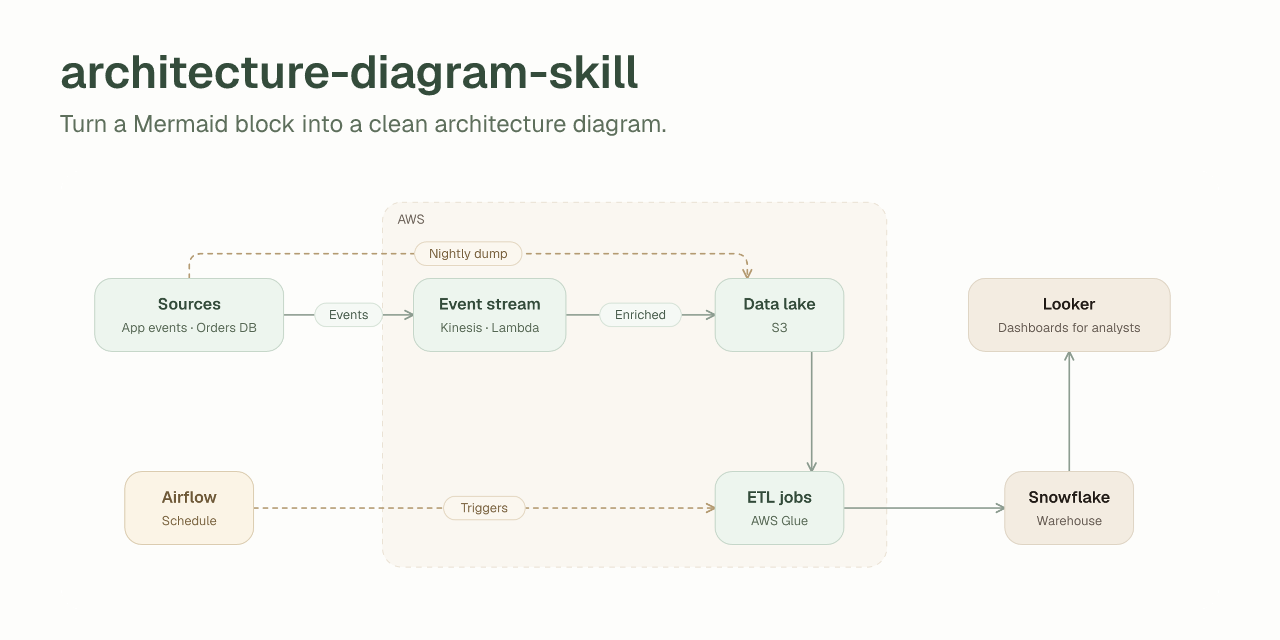
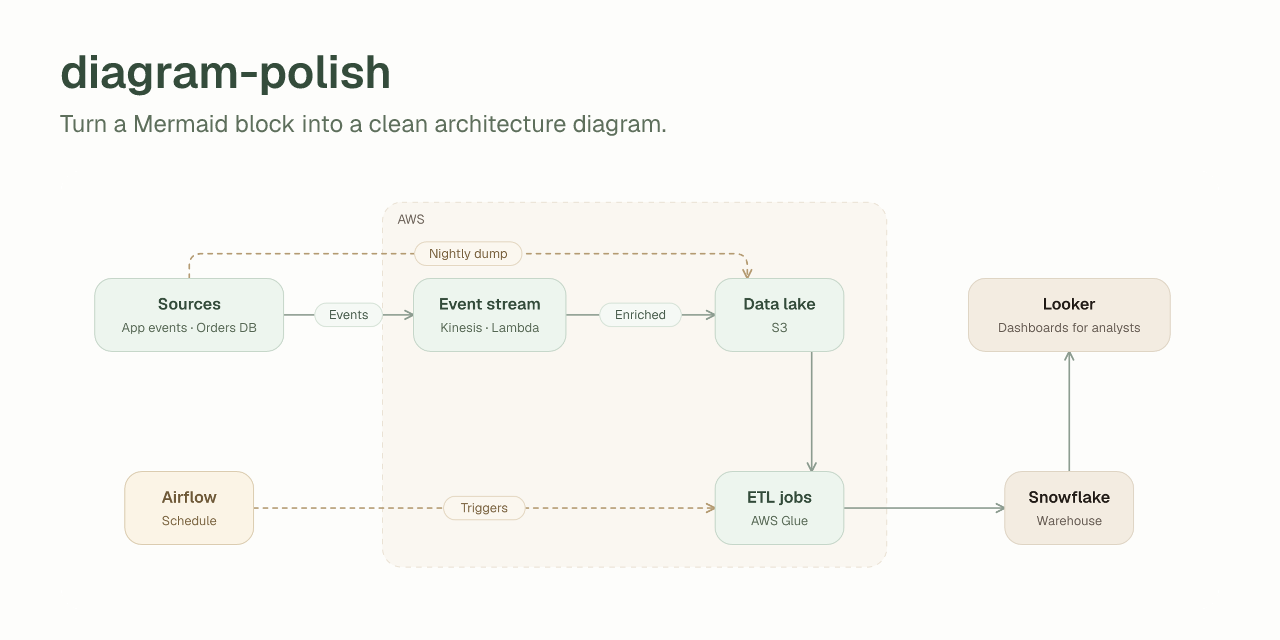
Rename the project to diagram-polish
The skill folder stays architecture-diagram (the name Claude matches against a
request). README, plugin and marketplace names, package files and the social
preview use the new repository name.

Changed region(s): [[0.0312, 0.0625, 0.5, 0.1562]]

diff --git a/README.md b/README.md
@@ -1,4 +1,4 @@
-# architecture-diagram-skill
+# diagram-polish
 
 A [Claude Code](https://claude.com/claude-code) skill that turns plain diagrams, like the Mermaid block in a README, into clean ones with a look of their own.
 
@@ -33,7 +33,7 @@ cp -r skills/architecture-diagram ~/.claude/skills/         # every project
 cp -r skills/architecture-diagram <project>/.claude/skills/ # one project
 ```
 
-Start a new session, then ask: *"turn the Mermaid in the README into an architecture diagram."* The repo is also a plugin marketplace: `claude plugin marketplace add <owner>/architecture-diagram-skill`, then `claude plugin install architecture-diagram-skill@architecture-diagram-skill`. The manifests follow the plugin docs but have not been run through `claude plugin validate` yet.
+Start a new session, then ask: *"turn the Mermaid in the README into an architecture diagram."* The repo is also a plugin marketplace: `claude plugin marketplace add <owner>/diagram-polish`, then `claude plugin install diagram-polish@diagram-polish`. The manifests follow the plugin docs but have not been run through `claude plugin validate` yet.
 
 ## Use the script alone
 
